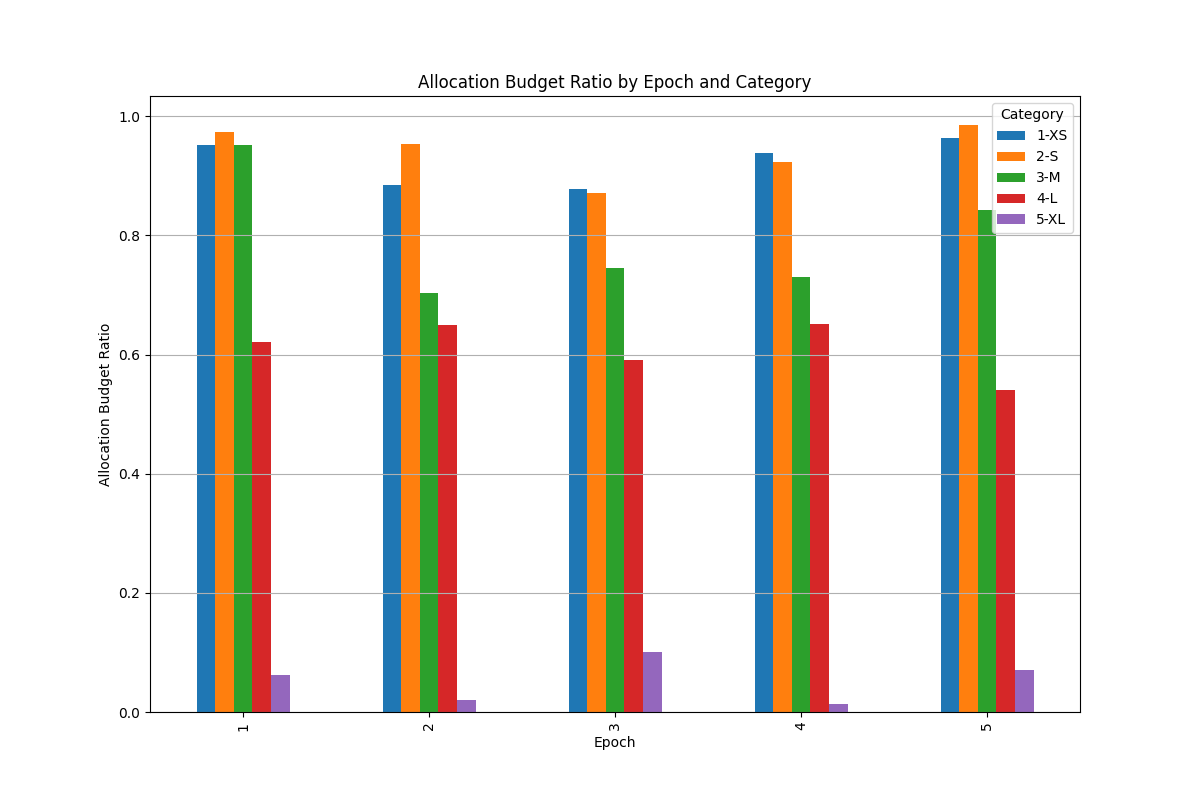
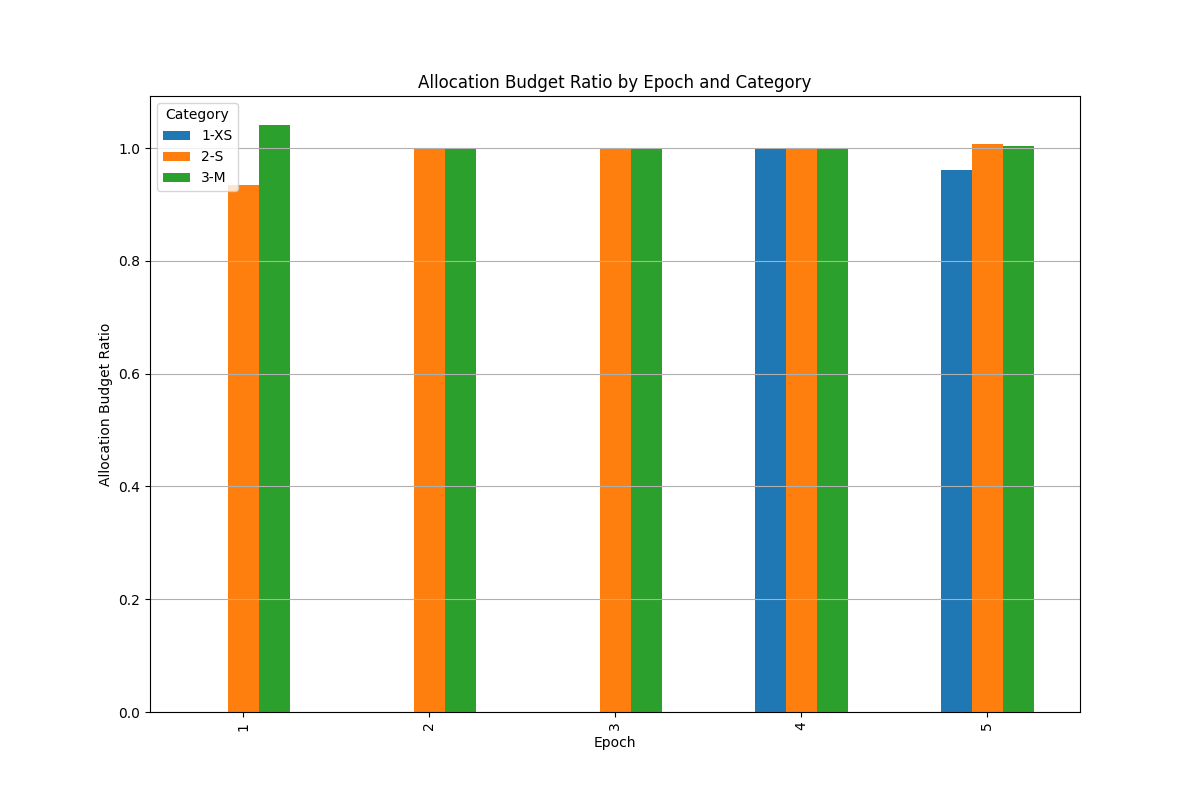
refresh + add epoch progres

diff --git a/_includes/table_amounts.html b/_includes/table_amounts.html
@@ -12,43 +12,43 @@
   <tbody>
     <tr>
       <td>1</td>
-      <td>101.469</td>
-      <td>75.913</td>
-      <td>5.532</td>
-      <td>0.252</td>
-      <td>0.073</td>
+      <td>0.016</td>
+      <td>0.013</td>
+      <td>0.013</td>
+      <td>0.138</td>
+      <td>0.954</td>
     </tr>
     <tr>
       <td>2</td>
-      <td>138.233</td>
-      <td>137.941</td>
-      <td>3.925</td>
-      <td>0.002</td>
-      <td>0.028</td>
+      <td>0.020</td>
+      <td>0.014</td>
+      <td>0.014</td>
+      <td>0.318</td>
+      <td>1.000</td>
     </tr>
     <tr>
       <td>3</td>
-      <td>241.301</td>
-      <td>239.465</td>
-      <td>25.484</td>
-      <td>0.008</td>
-      <td>0.106</td>
+      <td>0.045</td>
+      <td>0.035</td>
+      <td>0.035</td>
+      <td>0.233</td>
+      <td>1.000</td>
     </tr>
     <tr>
       <td>4</td>
-      <td>214.744</td>
-      <td>203.187</td>
-      <td>4.788</td>
-      <td>0.054</td>
-      <td>0.024</td>
+      <td>0.046</td>
+      <td>0.023</td>
+      <td>0.023</td>
+      <td>0.495</td>
+      <td>1.000</td>
     </tr>
     <tr>
       <td>5</td>
-      <td>220.261</td>
-      <td>190.266</td>
-      <td>14.464</td>
-      <td>0.136</td>
-      <td>0.076</td>
+      <td>0.242</td>
+      <td>0.131</td>
+      <td>0.132</td>
+      <td>0.458</td>
+      <td>1.002</td>
     </tr>
   </tbody>
 </table>

diff --git a/_includes/table_users.html b/_includes/table_users.html
@@ -12,43 +12,43 @@
   <tbody>
     <tr>
       <td>1</td>
-      <td>515</td>
-      <td>362</td>
-      <td>347</td>
+      <td>17</td>
       <td>15</td>
-      <td>0.703</td>
+      <td>15</td>
+      <td>15</td>
+      <td>0.882</td>
     </tr>
     <tr>
       <td>2</td>
-      <td>586</td>
-      <td>366</td>
-      <td>332</td>
+      <td>19</td>
       <td>14</td>
-      <td>0.625</td>
+      <td>14</td>
+      <td>14</td>
+      <td>0.737</td>
     </tr>
     <tr>
       <td>3</td>
-      <td>603</td>
-      <td>320</td>
-      <td>285</td>
+      <td>22</td>
       <td>15</td>
-      <td>0.531</td>
+      <td>15</td>
+      <td>15</td>
+      <td>0.682</td>
     </tr>
     <tr>
       <td>4</td>
-      <td>593</td>
-      <td>303</td>
-      <td>279</td>
+      <td>27</td>
       <td>16</td>
-      <td>0.511</td>
+      <td>16</td>
+      <td>16</td>
+      <td>0.593</td>
     </tr>
     <tr>
       <td>5</td>
-      <td>898</td>
-      <td>276</td>
-      <td>263</td>
-      <td>136</td>
-      <td>0.307</td>
+      <td>328</td>
+      <td>137</td>
+      <td>134</td>
+      <td>137</td>
+      <td>0.418</td>
     </tr>
   </tbody>
 </table>

diff --git a/index.html b/index.html
@@ -28,6 +28,18 @@ layout: default
 
     <h1>Insights</h1>
 
+    <h2>Epoch progress</h2>
+
+    <div class="chart-container">
+        <img src="assets/epoch_progress.png.png" alt="Chart Image" class="chart-image">
+        <div class="chart-description">
+            <h3>Daily epoch progress'</h3>
+            <p>Cummulative number of new users and daily new users.
+            </p>
+        </div>
+    </div>
+
+
     <h2>User allocations</h2>
 
     <div class="chart-container">

diff --git a/_includes/current_datetime.html b/_includes/current_datetime.html
@@ -7,6 +7,6 @@
     <title>Current Date and Time</title>
 </head>
 <body>
-    <p>Last update: 2024-10-19 22:22:21</p>
+    <p>Last update: 2024-10-20 00:01:26</p>
 </body>
 </html>
